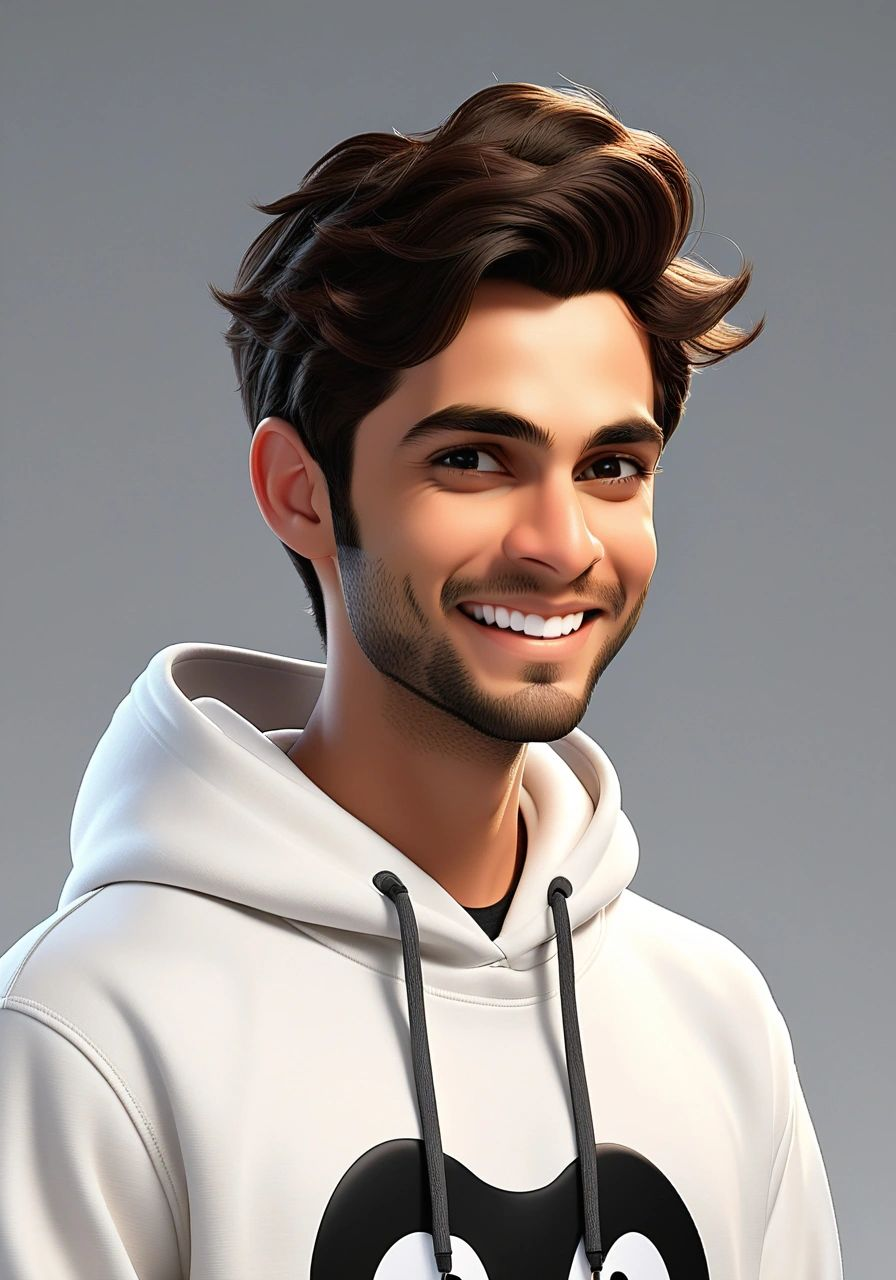
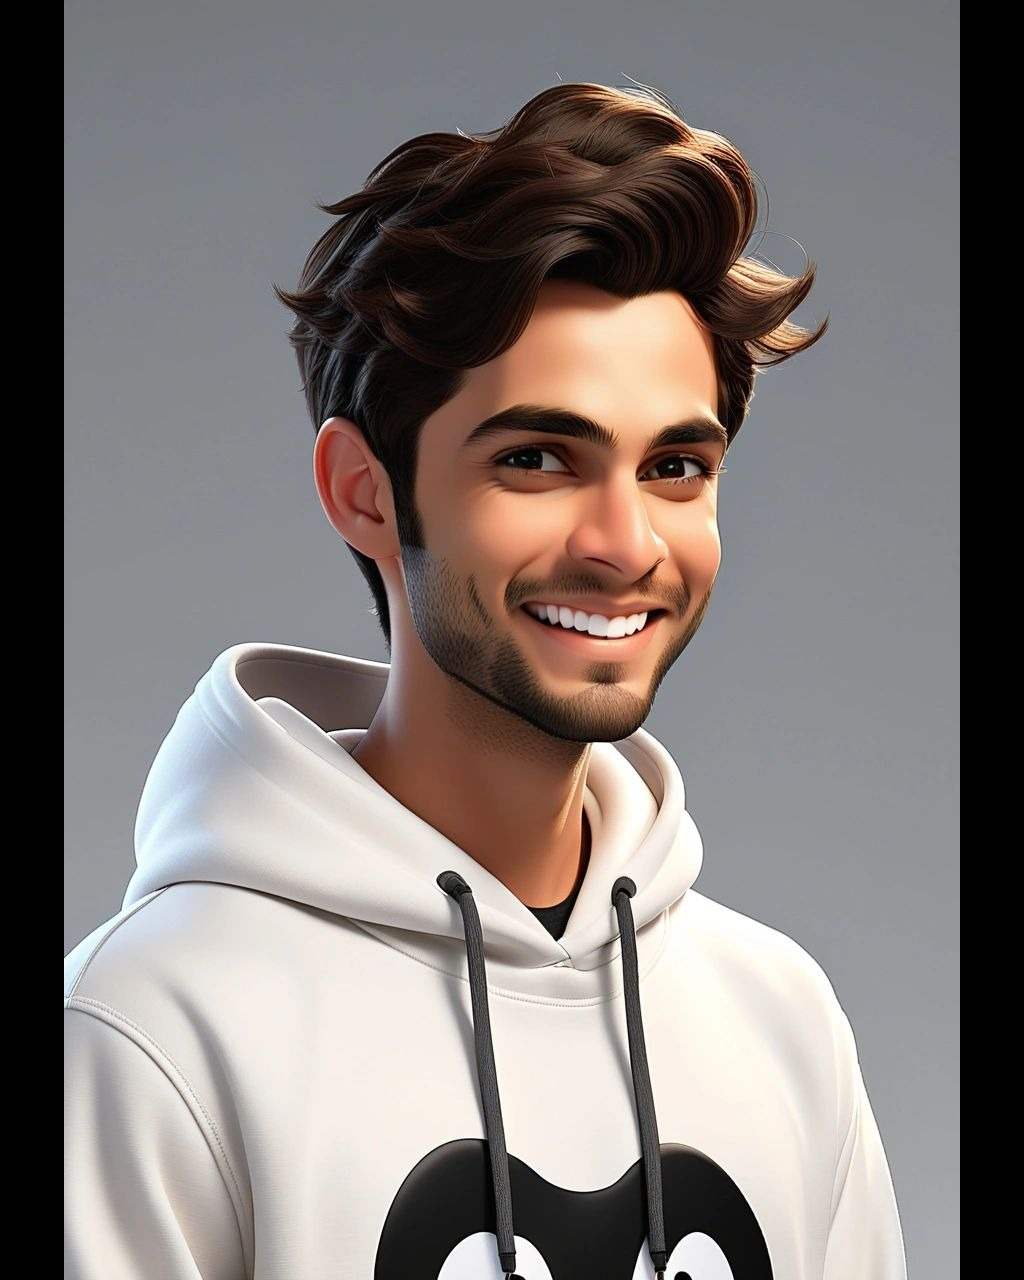
changed aspect ratio of the card

diff --git a/react/pixa-ai/src/Homestyles.css b/react/pixa-ai/src/Homestyles.css
@@ -91,19 +91,29 @@ button:hover {
 .photo-option {
   width: calc(15% - 8px); /* Set initial width to 15% of the container width */
   margin: 16px 2px; /* Add some margin between the cards horizontally and vertically */
+  display: flex;
+  align-items: center;
   border: 1px solid #ccc;
   border-radius: 5px;
   overflow: hidden;
   transition: transform 0.3s ease;
+  justify-content: center; /* Center-align the content horizontally */
+  height: 100%; /* Ensure each card occupies the same height */
+  
 }
 
 .photo-option:hover {
     transform: scale(1.05);
   }
-  
+
 .photo-option img {
   width: 100%; /* Ensure the image fills the entire width of the card */
   height: auto; /* Maintain the aspect ratio of the image */
+  display: block;
+  max-width: 100%; /* Ensure the image doesn't exceed the width of the card */
+  max-height: 100%; /* Ensure the image doesn't exceed the height of the card */
+  object-fit: cover; /* Cover the entire card area with the image */
+
 }
 
 /* Adjust styles for smaller screens */
